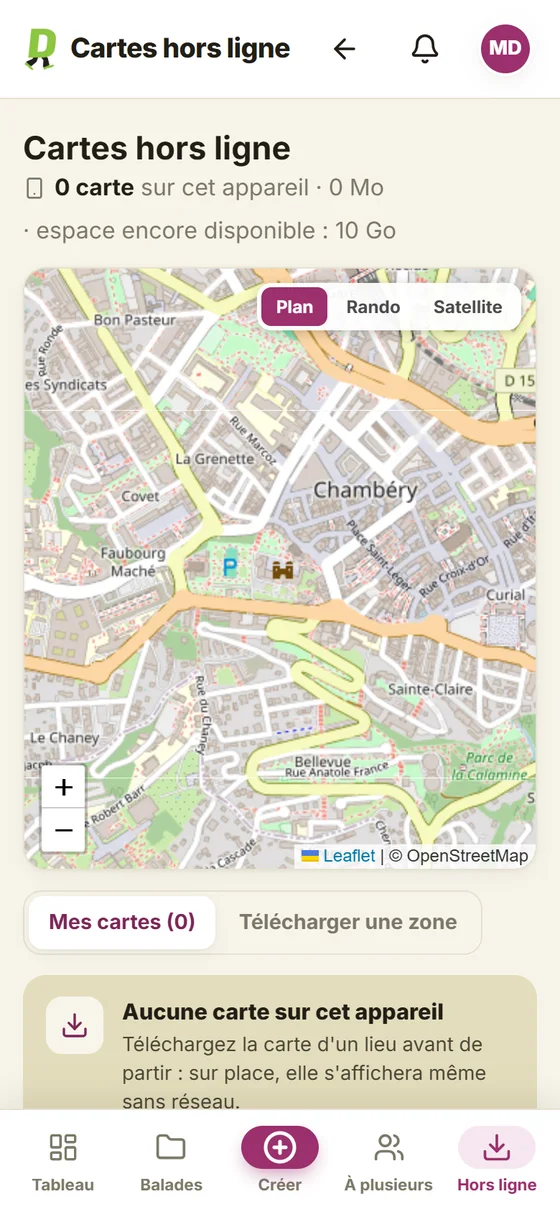
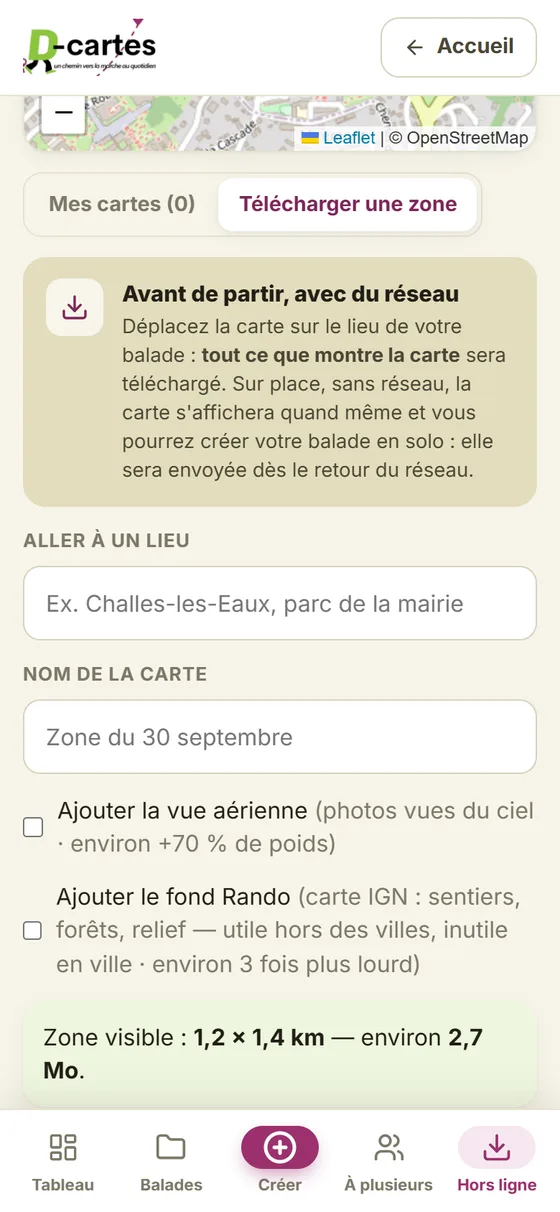
guide: capture « Télécharger une zone », retours (lien WhatsApp, formulation inclusive)

diff --git a/index.html b/index.html
@@ -454,7 +454,7 @@
           </ol>
           <p><strong>Sur place</strong>, mettez le téléphone en <strong>mode avion</strong> et créez votre balade avec le seul GPS. Ce test ne peut se faire qu'en marchant : c'est lui qui nous apprend le plus.</p>
         </div>
-        <figure class="tel"><div class="coque"><img src="img/09-app-hors-ligne.webp" alt="L'écran Cartes hors ligne, avec la carte et le bouton Télécharger une zone" loading="lazy"></div><figcaption>Cartes hors ligne</figcaption></figure>
+        <figure class="tel"><div class="coque"><img src="img/09-app-hors-ligne.webp" alt="L'onglet Télécharger une zone : le champ Aller à un lieu, le nom de la carte et la taille de la zone visible" loading="lazy"></div><figcaption>L'onglet « Télécharger une zone »</figcaption></figure>
       </article>
 
       <article class="mission sans-image">
@@ -470,13 +470,13 @@
   <!-- Retours -->
   <div class="retours" id="retours">
     <h2>Vos retours, dans le groupe WhatsApp</h2>
-    <p class="intro">Tous les retours passent par le groupe WhatsApp des testeurs D-cartes, dont vous faites déjà partie. Trois réflexes rendent un retour vraiment utile :</p>
+    <p class="intro">Tous les retours passent par le <a href="https://chat.whatsapp.com/GBEAkQPiLcr6QyMa8xnmwS" target="_blank" rel="noopener">groupe WhatsApp</a>. Trois réflexes rendent un retour vraiment utile :</p>
     <div class="reflexes">
       <div><strong>Une capture d'écran</strong>De ce que vous voyez. Sur la plupart des téléphones : bouton de volume bas et bouton de mise en veille en même temps.</div>
       <div><strong>Ce que vous vouliez faire</strong>Par exemple « je voulais ajouter une photo à mon banc ». C'est souvent plus utile que la description du problème.</div>
       <div><strong>Un message par sujet</strong>Pour que chaque retour puisse être suivi et traité séparément.</div>
     </div>
-    <p class="apres">Nous lisons tout, mais nous ne corrigerons pas tout de suite : chaque changement est d'abord validé par l'équipe D-marche, et les sujets importants sont discutés en comité de pilotage.</p>
+    <p class="apres">Chaque retour est lu, et chaque retour compte : c'est grâce à vous que D-cartes s'améliore. Les changements se décident ensuite ensemble, avec l'équipe D-marche et en comité de pilotage. Certains arrivent vite, d'autres demandent un peu plus de temps : nous vous dirons dans le groupe ce qui a été retenu.</p>
   </div>
 
   <!-- Questions -->
